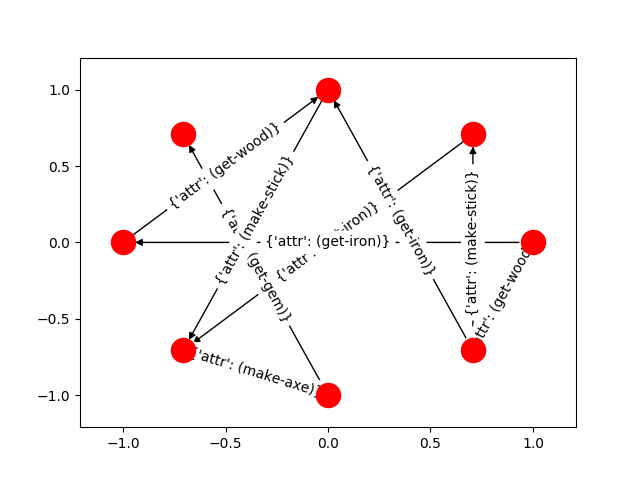
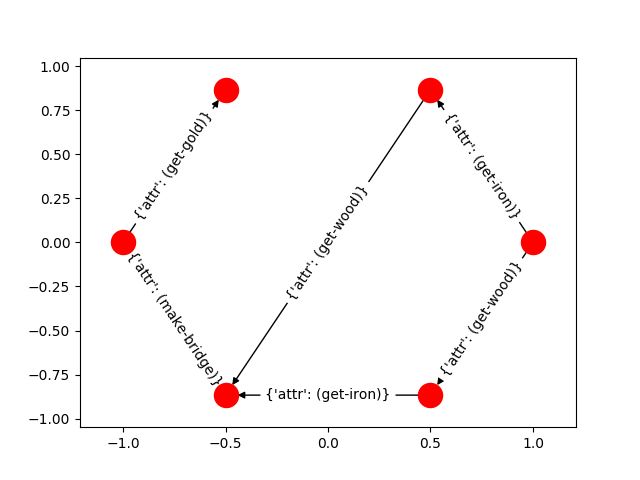
PDDL to RM using POP

diff --git a/README.md b/README.md
@@ -23,3 +23,9 @@ grbgetkey LICENSE-CODE
 cd src
 python run.py --domain ../domains/craft/domain.pddl --problem ../domains/craft/t9.pddl --plan ../domains/craft/t9.plan
 ```
+
+### Example
+Given the task of getting gold, and the rules of Minecraft described in PDDL. 
+This package encodes the actions sequences into a finite state machine. 
+
+![rm](./results/rm.png)
